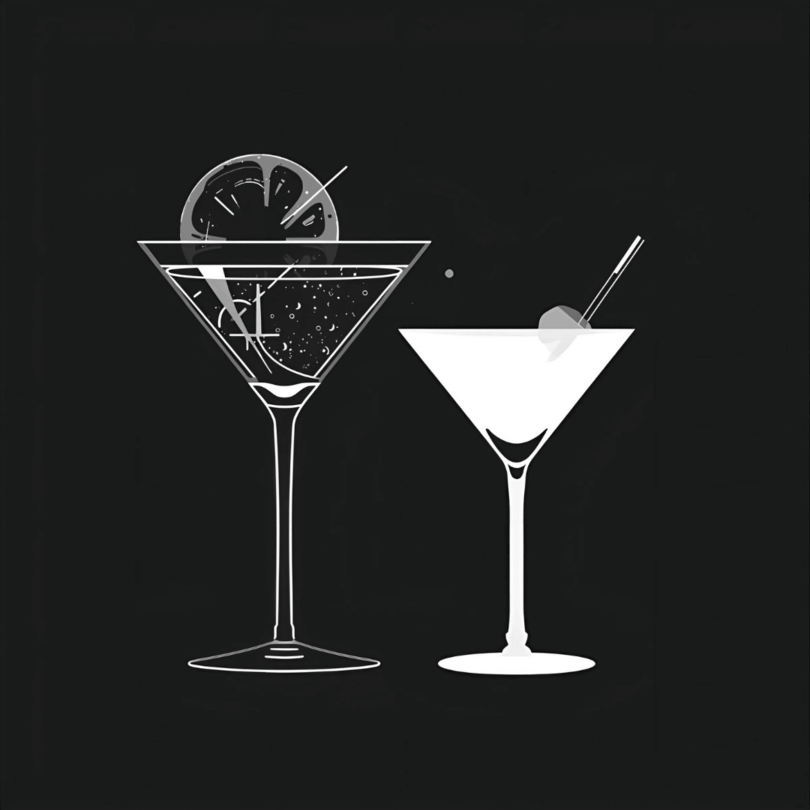
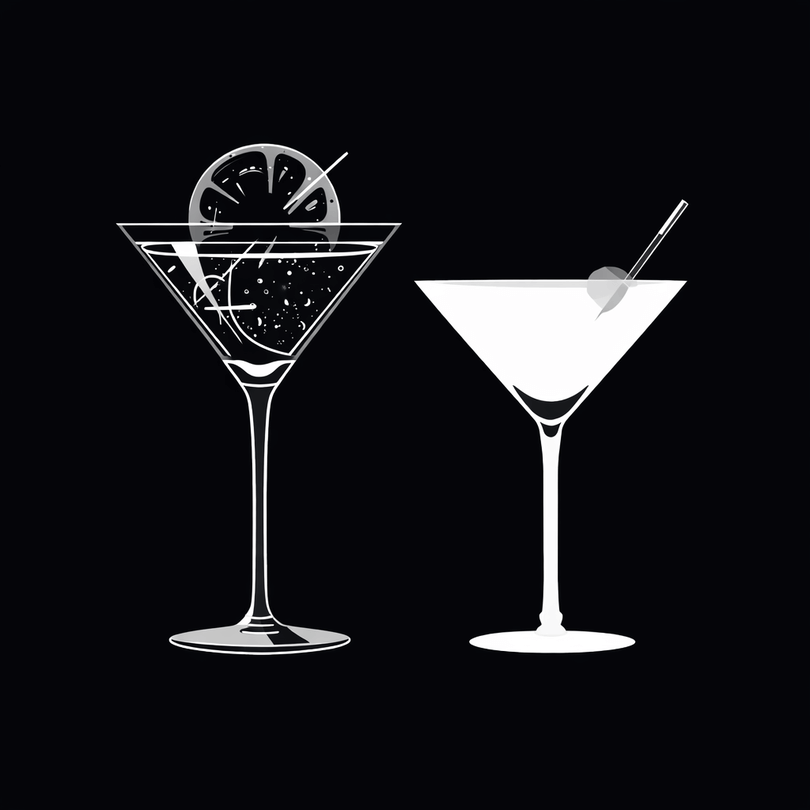
fix: update image fit property and add background color in MenuPackageBox component

Changed region(s): [[0.1543, 0.1543, 0.8642, 0.8333], [0.7099, 0.463, 0.7407, 0.4938]]

diff --git a/src/components/MenuPackageBox.tsx b/src/components/MenuPackageBox.tsx
@@ -65,9 +65,9 @@ export default function MenuPackageBox({
             className="lazyload blur-on-load"
             alt={pkg.label}
             height={300}
-            fit="cover"
+            fit="contain"
             radius="md"
-            style={{ pointerEvents: 'none' }}
+            style={{ pointerEvents: 'none', backgroundColor: 'black' }}
           />
 
           <Text size="xl" pt="xs" fw={700}>
